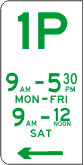
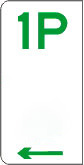
Add 1P sign without times, fix preset bugs
Also show `:default` all the time

diff --git a/src/parking/controls/editor/presets.js b/src/parking/controls/editor/presets.js
@@ -2,6 +2,7 @@
 import ausNoStoppingImg from '../../../signs/no-stopping.jpg'
 import ausNoParkingSign from '../../../signs/no-parking.jpg'
 import aus1pSign from '../../../signs/1p.jpg'
+import aus1pDuringDaySign from '../../../signs/1p-during-day.jpg'
 import aus2pPermitSign from '../../../signs/2p-permit.png'
 
 const ausSignWidth = 30
@@ -17,8 +18,8 @@ export const presets = [
             { k: 'parking:condition:{side}', v: '' },
             { k: 'parking:condition:{side}:time_interval', v: '' },
             { k: 'parking:condition:{side}:default', v: '' },
-            { k: 'parking:condition:{side}:maxstay', v: '' },
             { k: 'parking:condition:{side}:disc:maxstay', v: '' },
+            { k: 'parking:condition:{side}:disc:time_interval', v: '' },
             { k: 'parking:condition:{side}:residents', v: '' },
         ],
         img: {
@@ -37,8 +38,8 @@ export const presets = [
             { k: 'parking:condition:{side}', v: '' },
             { k: 'parking:condition:{side}:time_interval', v: '' },
             { k: 'parking:condition:{side}:default', v: '' },
-            { k: 'parking:condition:{side}:maxstay', v: '' },
             { k: 'parking:condition:{side}:disc:maxstay', v: '' },
+            { k: 'parking:condition:{side}:disc:time_interval', v: '' },
             { k: 'parking:condition:{side}:residents', v: '' },
         ],
         img: {
@@ -51,14 +52,38 @@ export const presets = [
     },
     {
         country: 'australia',
+        key: '1p-during-day',
+        tags: [
+            { k: 'parking:lane:{side}', v: '' },
+            { k: 'parking:condition:{side}', v: 'disc' },
+            { k: 'parking:condition:{side}:time_interval', v: '' },
+            { k: 'parking:condition:{side}:default', v: 'free' },
+            { k: 'parking:condition:{side}:disc:maxstay', v: '1 hour' },
+            { k: 'parking:condition:{side}:disc:time_interval', v: 'Mo-Fr 09:30-17:30; Sa 09:00-12:00' },
+            { k: 'parking:condition:{side}:residents', v: '' },
+        ],
+        img: {
+
+            src: aus1pDuringDaySign,
+            height: ausSignHeight,
+            width: ausSignWidth,
+            alt: '1P free parking during day, unlimited otherwise',
+            title: '1P free parking during day, unlimited otherwise',
+        },
+        click: {
+            showTypeButtons: true,
+        },
+    },
+    {
+        country: 'australia',
         key: '1p',
         tags: [
             { k: 'parking:lane:{side}', v: '' },
             { k: 'parking:condition:{side}', v: 'disc' },
-            { k: 'parking:condition:{side}:time_interval', v: 'Mo-Fr 09:30-17:30; Sa 09:00-12:00' },
-            { k: 'parking:condition:{side}:default', v: 'free' },
-            { k: 'parking:condition:{side}:maxstay', v: '30 minutes' },
-            { k: 'parking:condition:{side}:disc:maxstay', v: '' },
+            { k: 'parking:condition:{side}:time_interval', v: '' },
+            { k: 'parking:condition:{side}:default', v: '' },
+            { k: 'parking:condition:{side}:disc:maxstay', v: '1 hour' },
+            { k: 'parking:condition:{side}:disc:time_interval', v: '' },
             { k: 'parking:condition:{side}:residents', v: '' },
         ],
         img: {
@@ -78,18 +103,18 @@ export const presets = [
         tags: [
             { k: 'parking:lane:{side}', v: '' },
             { k: 'parking:condition:{side}', v: 'disc' },
-            { k: 'parking:condition:{side}:time_interval', v: 'Mo-Fr 08:00-18:00' },
+            { k: 'parking:condition:{side}:time_interval', v: '' },
             { k: 'parking:condition:{side}:default', v: 'free' },
-            { k: 'parking:condition:{side}:maxstay', v: '' },
             { k: 'parking:condition:{side}:disc:maxstay', v: '2 hours' },
+            { k: 'parking:condition:{side}:disc:time_interval', v: 'Mo-Fr 08:00-18:00' },
             { k: 'parking:condition:{side}:residents', v: '*' },
         ],
         img: {
             src: aus2pPermitSign,
             height: ausSignHeight,
             width: ausSignWidth,
-            alt: '2P Parking, Permit excepted',
-            title: '2P Parking, Permit excepted',
+            alt: '2P free parking during weekday daytime, permit excepted',
+            title: '2P free parking during weekday daytime, permit excepted',
         },
         click: {
             showTypeButtons: true,
@@ -103,8 +128,8 @@ export const presets = [
             { k: 'parking:condition:{side}', v: '' },
             { k: 'parking:condition:{side}:time_interval', v: '' },
             { k: 'parking:condition:{side}:default', v: '' },
-            { k: 'parking:condition:{side}:maxstay', v: '' },
             { k: 'parking:condition:{side}:disc:maxstay', v: '' },
+            { k: 'parking:condition:{side}:disc:time_interval', v: '' },
             { k: 'parking:condition:{side}:residents', v: '' },
         ],
         img: {
@@ -123,8 +148,8 @@ export const presets = [
             { k: 'parking:condition:{side}', v: '' },
             { k: 'parking:condition:{side}:time_interval', v: '' },
             { k: 'parking:condition:{side}:default', v: '' },
-            { k: 'parking:condition:{side}:maxstay', v: '' },
             { k: 'parking:condition:{side}:disc:maxstay', v: '' },
+            { k: 'parking:condition:{side}:disc:time_interval', v: '' },
             { k: 'parking:condition:{side}:residents', v: '' },
         ],
         img: {
@@ -143,8 +168,8 @@ export const presets = [
             { k: 'parking:condition:{side}', v: '' },
             { k: 'parking:condition:{side}:time_interval', v: '1-31/2' },
             { k: 'parking:condition:{side}:default', v: 'free' },
-            { k: 'parking:condition:{side}:maxstay', v: '' },
             { k: 'parking:condition:{side}:disc:maxstay', v: '' },
+            { k: 'parking:condition:{side}:disc:time_interval', v: '' },
             { k: 'parking:condition:{side}:residents', v: '' },
         ],
         img: {
@@ -163,8 +188,8 @@ export const presets = [
             { k: 'parking:condition:{side}', v: '' },
             { k: 'parking:condition:{side}:time_interval', v: '2-30/2' },
             { k: 'parking:condition:{side}:default', v: 'free' },
-            { k: 'parking:condition:{side}:maxstay', v: '' },
             { k: 'parking:condition:{side}:disc:maxstay', v: '' },
+            { k: 'parking:condition:{side}:disc:time_interval', v: '' },
             { k: 'parking:condition:{side}:residents', v: '' },
         ],
         img: {
@@ -183,8 +208,8 @@ export const presets = [
             { k: 'parking:condition:{side}', v: 'free' },
             { k: 'parking:condition:{side}:time_interval', v: '' },
             { k: 'parking:condition:{side}:default', v: '' },
-            { k: 'parking:condition:{side}:maxstay', v: '' },
             { k: 'parking:condition:{side}:disc:maxstay', v: '' },
+            { k: 'parking:condition:{side}:disc:time_interval', v: '' },
             { k: 'parking:condition:{side}:residents', v: '' },
         ],
         img: {
@@ -206,8 +231,8 @@ export const presets = [
             { k: 'parking:condition:{side}', v: 'ticket' },
             { k: 'parking:condition:{side}:time_interval', v: '' },
             { k: 'parking:condition:{side}:default', v: '' },
-            { k: 'parking:condition:{side}:maxstay', v: '' },
             { k: 'parking:condition:{side}:disc:maxstay', v: '' },
+            { k: 'parking:condition:{side}:disc:time_interval', v: '' },
             { k: 'parking:condition:{side}:residents', v: '' },
         ],
         img: {

diff --git a/src/parking/controls/editor/editor-form.js b/src/parking/controls/editor/editor-form.js
@@ -88,8 +88,8 @@ const parkingLaneTagTemplates = [
     'parking:lane:{side}',
     'parking:lane:{side}:{type}',
     'parking:condition:{side}',
-    'parking:condition:{side}:time_interval',
     'parking:condition:{side}:default',
+    'parking:condition:{side}:time_interval',
     'parking:condition:{side}:maxstay',
     'parking:condition:{side}:capacity',
     'parking:condition:{side}:residents',
@@ -101,11 +101,11 @@ function getTagInupts(osm, side) {
     const inputs = []
     const type = osm.tags[`parking:lane:${side}`] || 'type'
     for (const tagTemplate of parkingLaneTagTemplates)
-        inputs.push(getTagInupt(osm, side, type, tagTemplate))
+        inputs.push(getTagInput(osm, side, type, tagTemplate))
     return inputs
 }
 
-function getTagInupt(osm, side, parkingType, tagTemplate) {
+function getTagInput(osm, side, parkingType, tagTemplate) {
     const tag = tagTemplate
         .replace('{side}', side)
         .replace('{type}', parkingType)
@@ -146,9 +146,8 @@ function getTagInupt(osm, side, parkingType, tagTemplate) {
 
         case 'parking:condition:{side}:default': {
             input = getTextInput(tag, value)
-            const timeIntervalTag = 'parking:condition:{side}:time_interval'
-                .replace('{side}', side)
-            hide = !osm.tags[timeIntervalTag]
+            // Don't hide this even if time_interval is showing -
+            // the default is still important
             break
         }
         case 'parking:condition:{side}:maxstay': {
